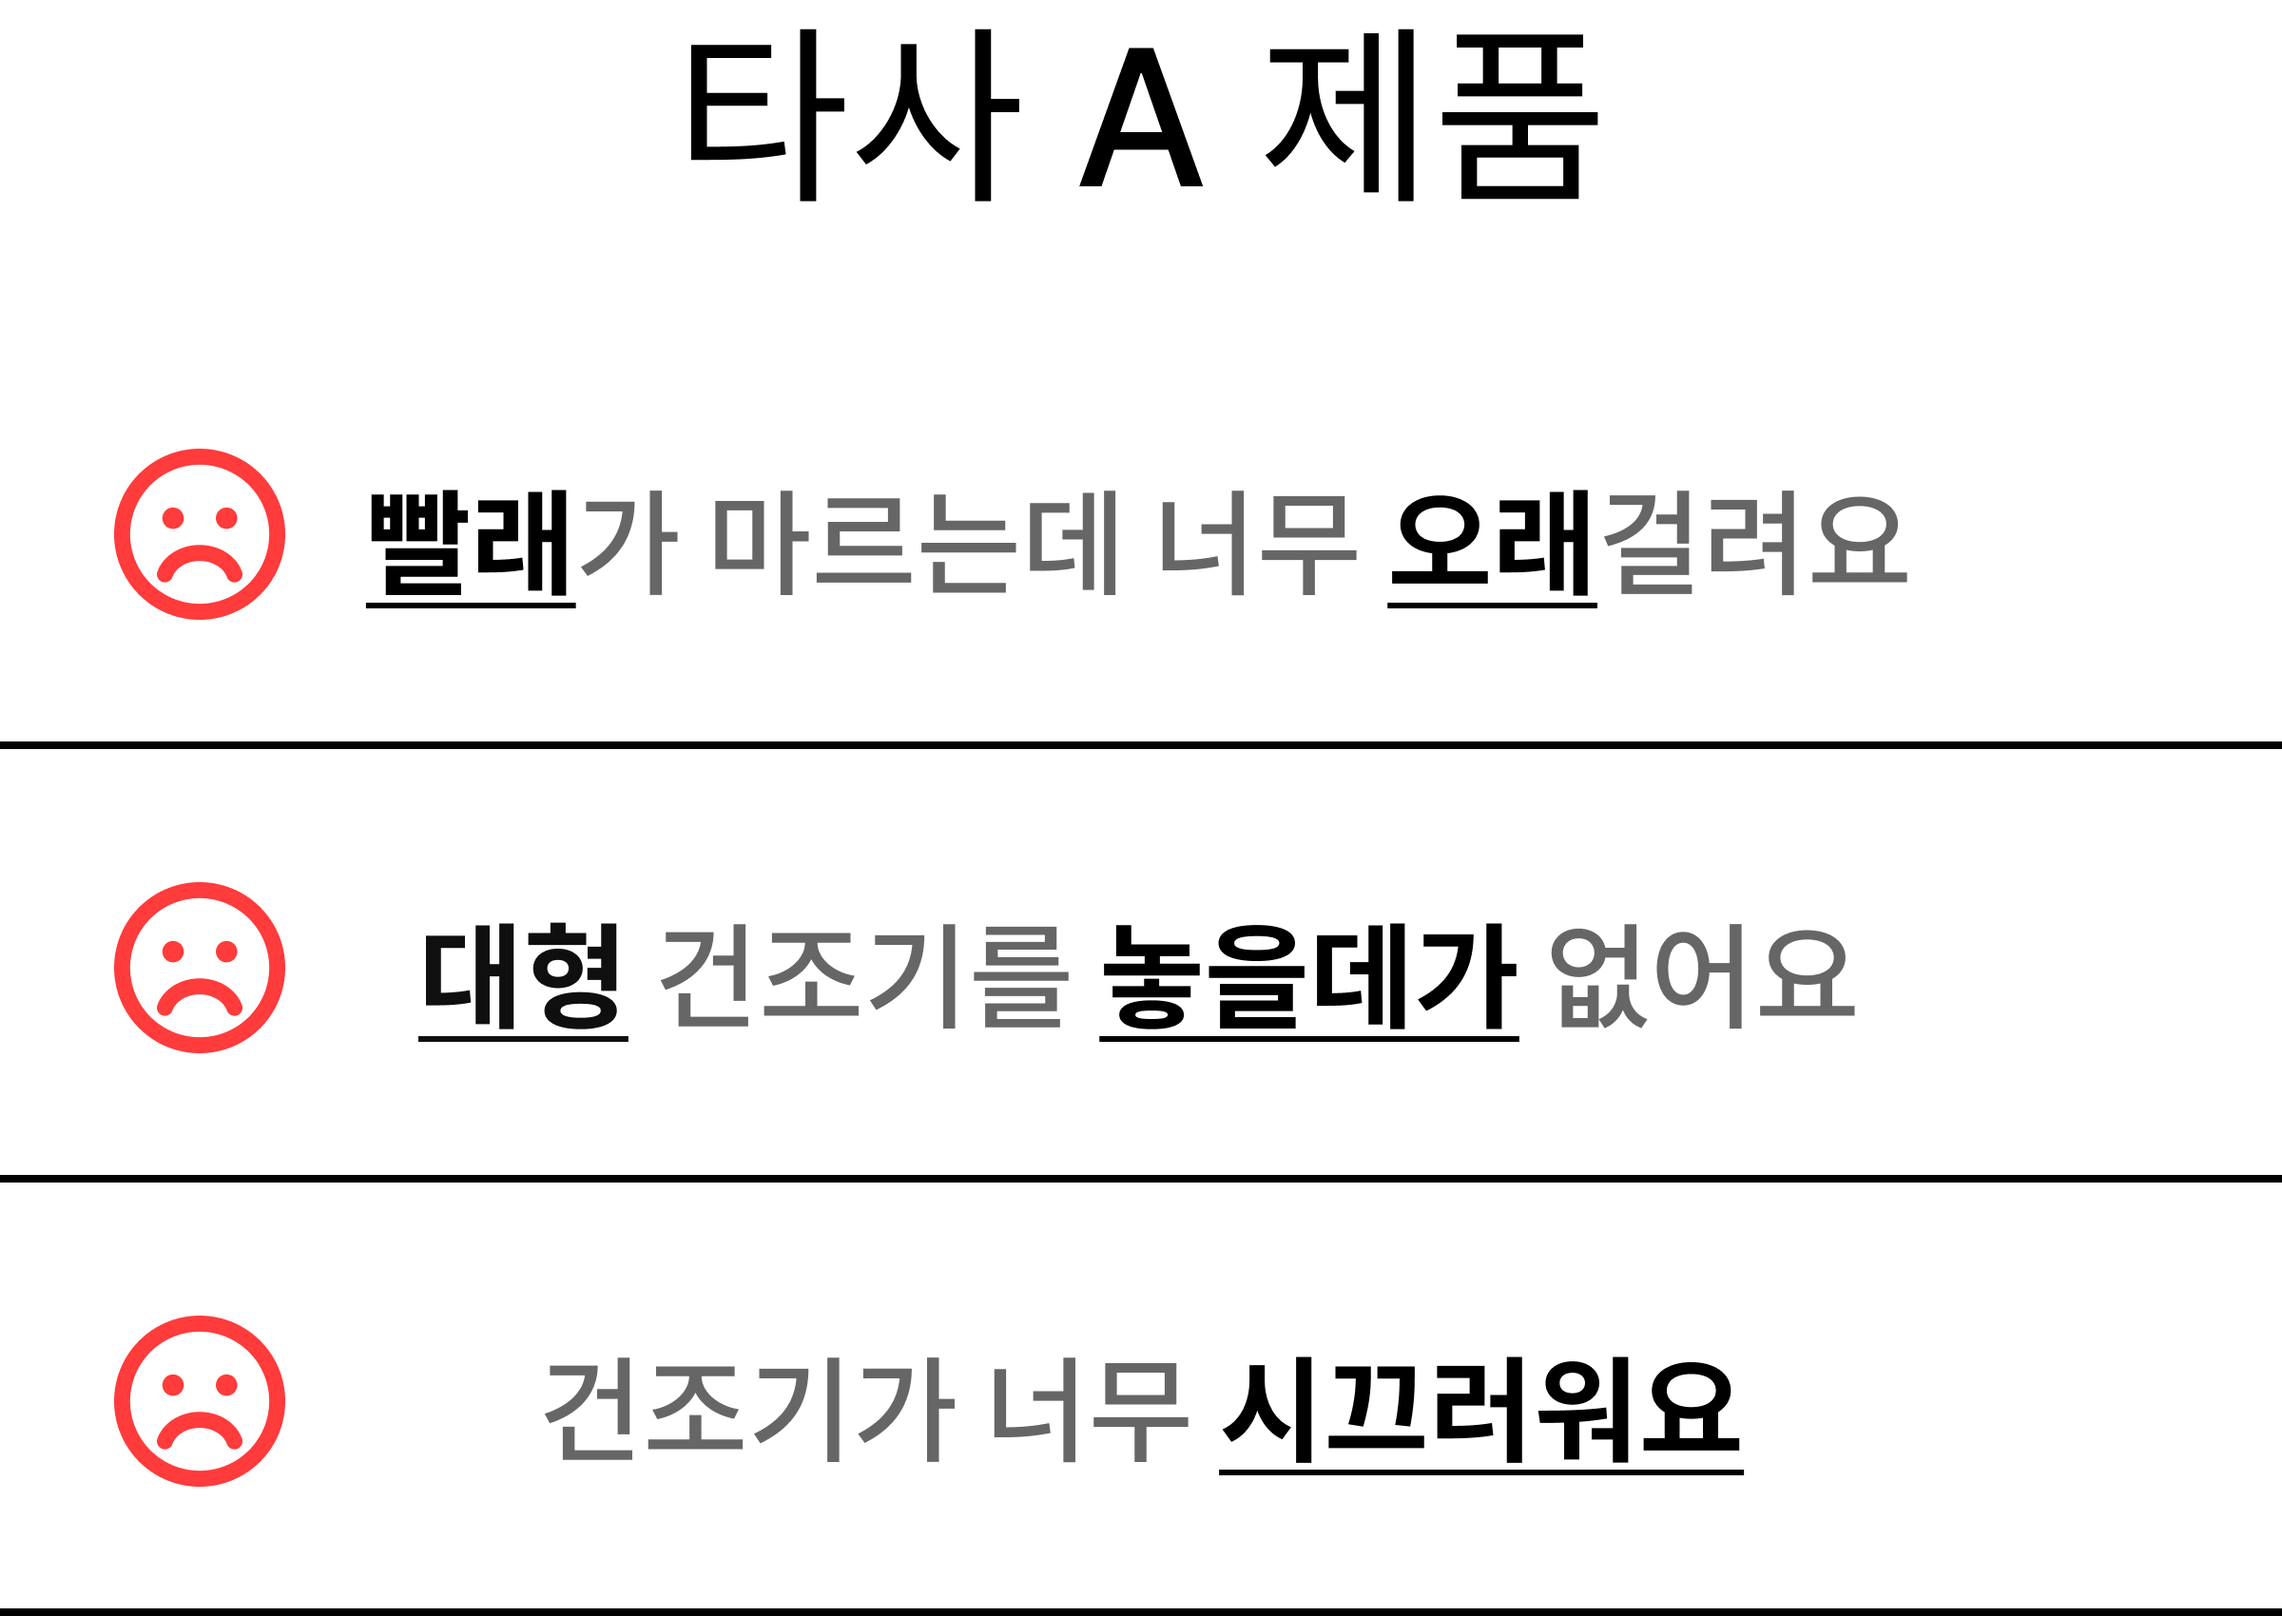
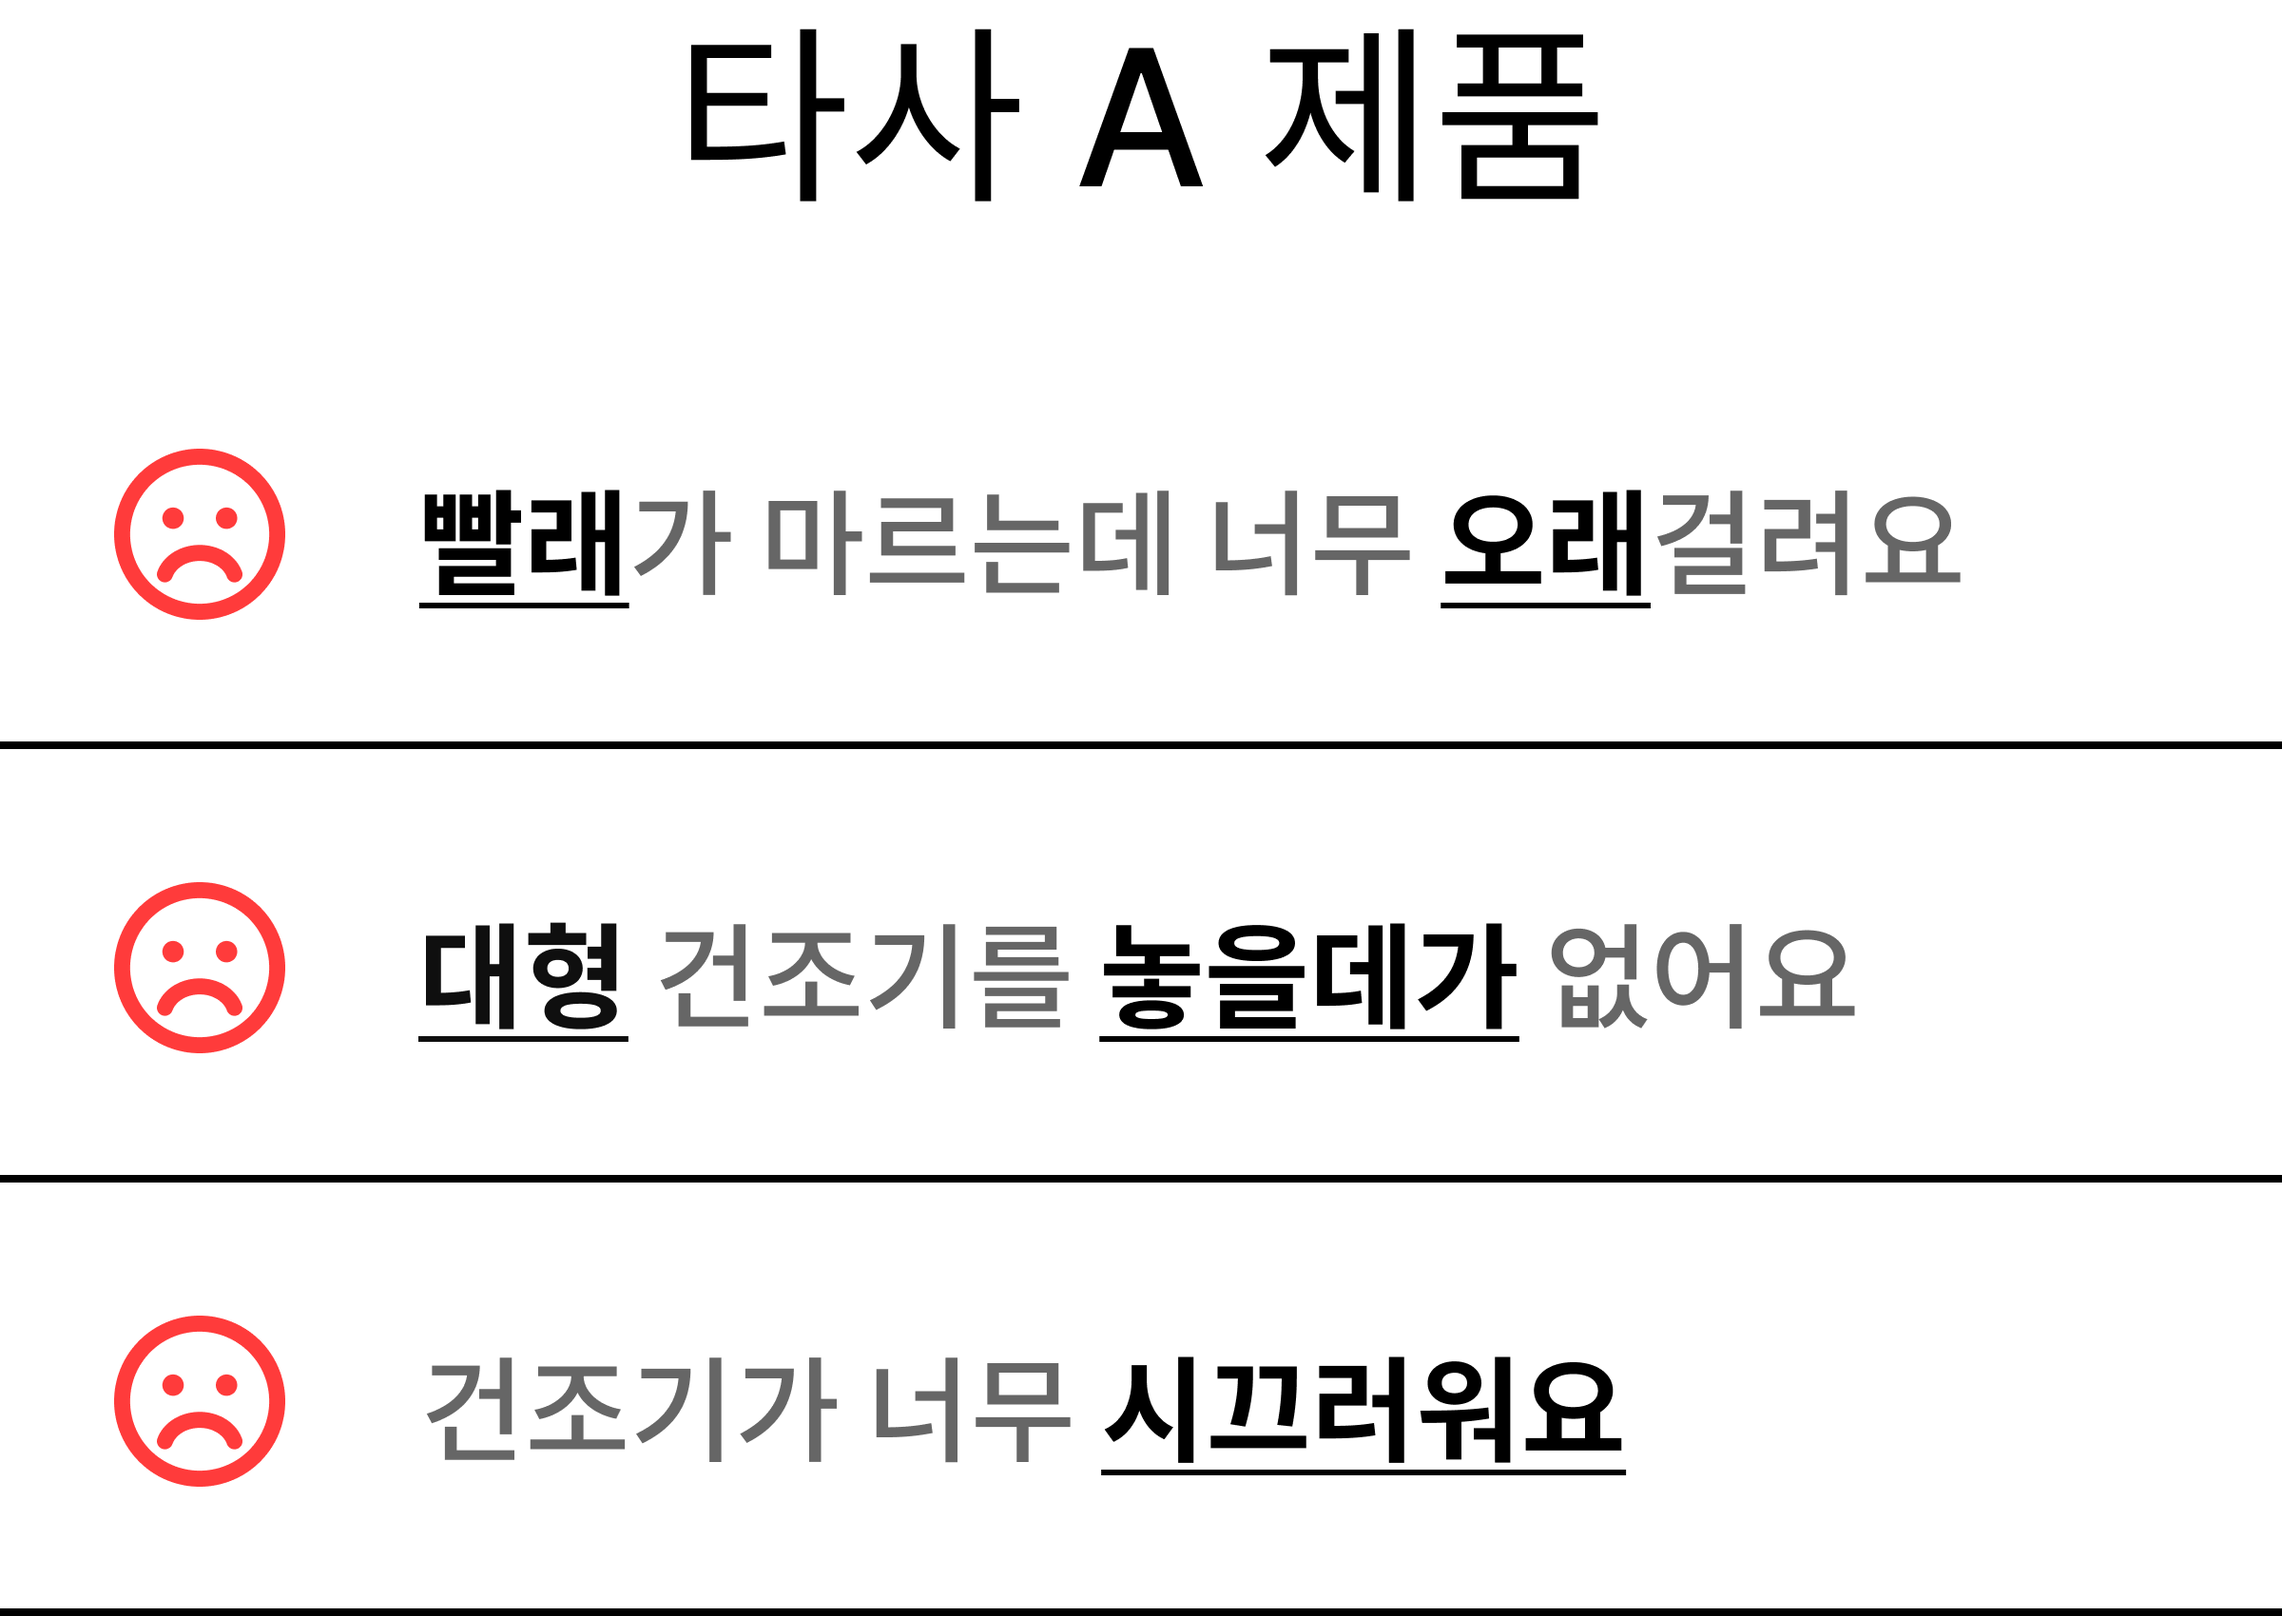
비교 반응형 이미지 교체,  리뷰 반응형 이미지 교체 갤러리 수정중

Changed region(s): [[0.1562, 0.2806, 0.875, 0.3741], [0.1875, 0.8418, 0.7812, 0.9353]]

diff --git a/css/introduction.css b/css/introduction.css
@@ -184,6 +184,11 @@ body {
 .main_copy img{
     width: 100%;
 }
+@media screen and (max-width: 480px){
+  .main_copy img{
+    height: 60px;
+  }
+}
 
 /* ============================강점============================================================== */
 /* 전체 래퍼 */
@@ -285,14 +290,17 @@ body {
 /* 각 텍스트 박스 이미지의 너비 설정 */
 .txt-box1 img {
   width: 327px;
+  height: 50px;
 }
 
 .txt-box2 img {
   width: 388px;
+  height: 50px;
 }
 
 .txt-box3 img {
   width: 365px;
+  height: 50px;
 }
 
 /* 768px 이하에서 레이아웃 조정 */
@@ -306,7 +314,7 @@ body {
   }
 
   .image-box1 img, .image-box2 img, .image-box3 img {
-    padding: 3%;
+    padding: 5%;
     max-width: 400px; /* 이미지 최대 너비 조정 */
     min-width: 200px;
     max-height: 400px;
@@ -316,11 +324,21 @@ body {
   margin: 1%; /* 이미지와 텍스트 사이의 간격 */
 }
 .txt-box1 img{
-  max-width: 240px;
-  max-height: 47.81px;
+  max-width: 230px;
+  height: 50px;
 }
  .txt-box2 img, .txt-box3 img{
   max-width: 250px;
+  max-height: 50px;
+  min-height: 45px;
+}
+@media (max-width: 480px){
+  .image-box1 img, .image-box2 img, .image-box3 img{
+    padding: 5%;
+    max-width: 350px; /* 이미지 최대 너비 조정 */
+    min-width: 200px;
+    max-height: 350px;
+  }
 }
 
 /* 360px 이하에서 레이아웃 조정 */
@@ -340,7 +358,8 @@ body {
   .txt-box1 img, .txt-box2 img, .txt-box3 img{
     max-width: 200px;
     min-width: 100px;
-    max-height: 200px;
+    max-height: 45px;
+    
   }
   .txt-box1 , .txt-box2, .txt-box3 {
     margin: 0;
@@ -350,18 +369,17 @@ body {
 /* ==================================강점 끝=========================================================== */
 /* 제품비교 */
 .compare {
+  display: flex;
+  justify-content: center;
   width: 100%;
   padding: 0 7%;
 }
-.compare img {
-  width: 100%;
 
-
-}
 
 /* 기본 이미지는 기본적으로 보임 */
 .default-img {
   display: block; /* 큰 화면에서 보임 */
+    width: 1300px;
 }
 
 /* 대체 이미지는 기본적으로 숨김 */
@@ -371,6 +389,11 @@ body {
 
 @media (max-width: 768px) {
 .compare {
+  display: flex;
+  flex-direction: column;
+  justify-content: center;
+  width: 100%;
+  padding: 0 7%;
   padding: 2% 5%;
 }
 
@@ -382,6 +405,9 @@ body {
   padding-left: 10%;
   padding-right: 10%;
   display: block; /* 작은 화면에서 보임 */
+}
+.mobile-img1>img{
+  width: 100%;
 }
 .mobile-img2 {
   padding-top: 10%;
@@ -401,8 +427,8 @@ body {
 .bbtn-container {
   display: flex;
   justify-content: center; /* 버튼을 가운데로 정렬 */
-  margin-bottom: 3%;
-  margin-top: 3%;
+  margin-bottom: 7%;
+  margin-top: 7%;
 }
 
 /* 버튼 스타일 */
@@ -446,8 +472,8 @@ body {
   .bbtn-container {
     display: flex;
     justify-content: center; /* 버튼을 가운데로 정렬 */
-    margin-bottom: 5%;
-    margin-top: 5%;
+    margin-bottom: 10%;
+    margin-top: 10%;
   }
   .bbtn {
     height: 30px;
@@ -971,18 +997,8 @@ width: 50%;
 }
 
 /* Swiper 컨테이너에 대한 스타일 */
-
-/* 스와이퍼 슬라이더 스타일 조정 */
-.swiper.sw-gallery {
+.swiper.sw-gallery{
   display: none;
-  width: 100%;
-}
-
-/* 스와이퍼 이미지 스타일 */
-.swiper-wrapper > img {
-  width: 400px;
-  height: 400px;
-  object-fit: cover; /* 잘림 방지 */
 }
 /* Swiper 슬라이드 컨텐츠 스타일 */
 .swiper-slide .contants {

diff --git a/js/introduction.js b/js/introduction.js
@@ -42,6 +42,19 @@ document.addEventListener("DOMContentLoaded", function () {
       });
     }
   };
+  const destroySwiper = () => {
+    if (swiper) {
+      swiper.destroy(true, true);
+      swiper = null;
+    }
+  };
+  const handleResize = () => {
+    if (window.innerWidth <= 768 && !swiper) {
+      initSwiper();
+    } else if (window.innerWidth > 768) {
+      destroySwiper();
+    }
+  };
 
   window.addEventListener("resize", handleResize);
   handleResize(); // 초기 호출

diff --git a/css/review.css b/css/review.css
@@ -8,6 +8,7 @@
 
 .review {
   width: 100%;
+  display: block;
 }
 
 .review_inner {
